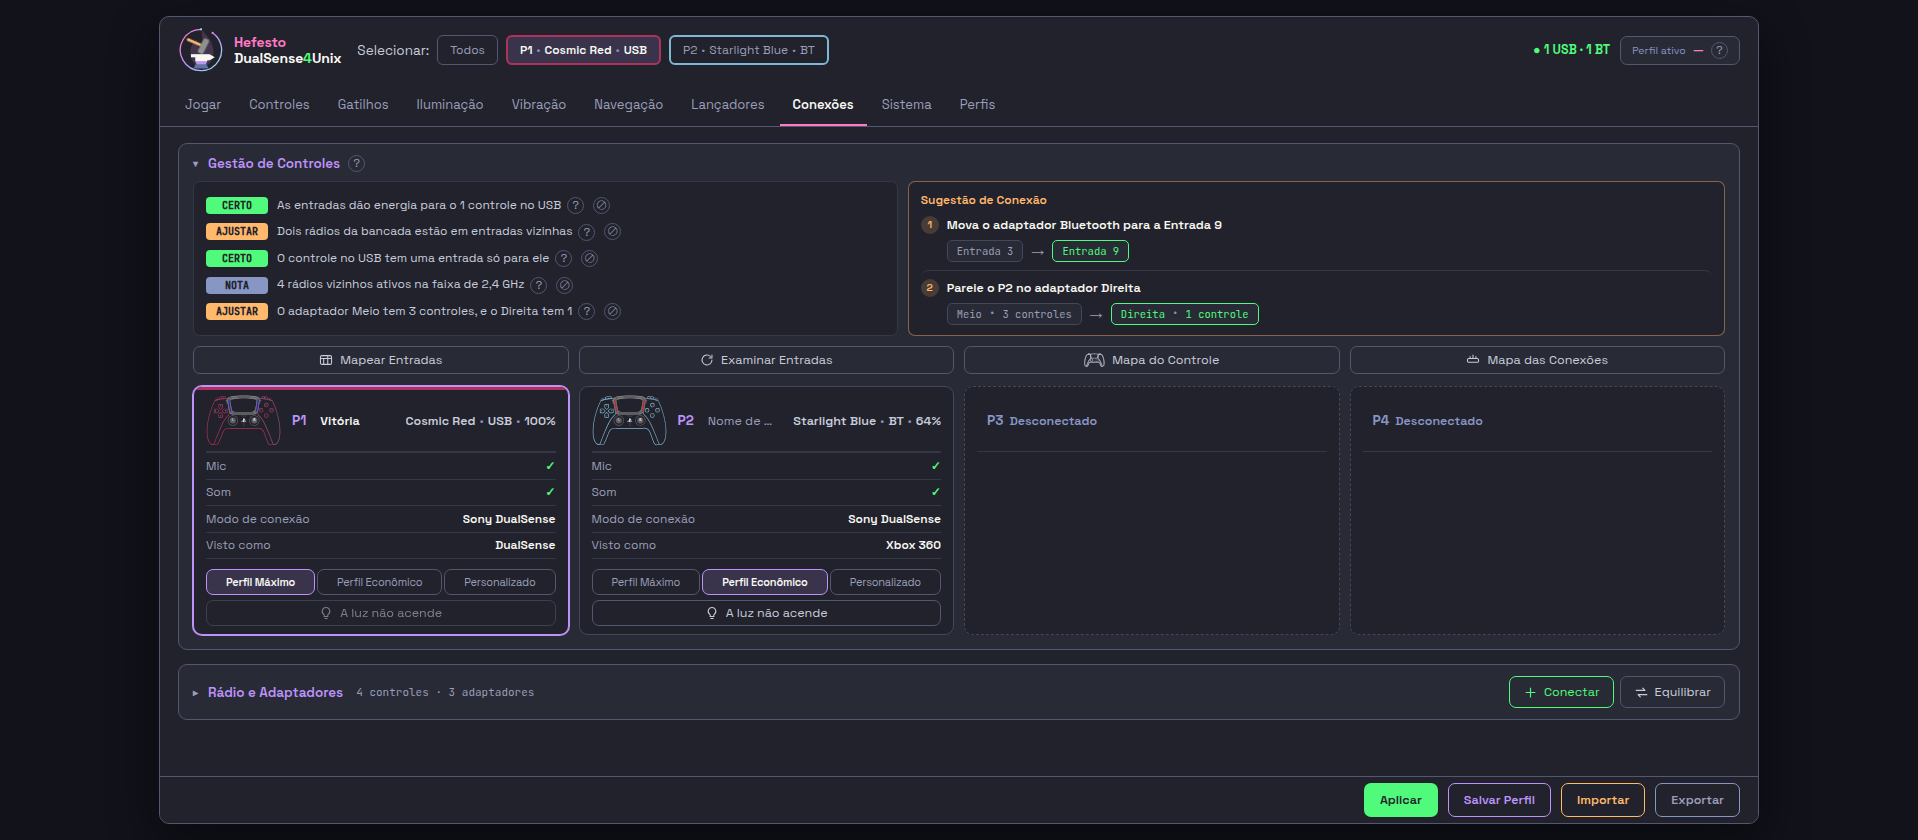
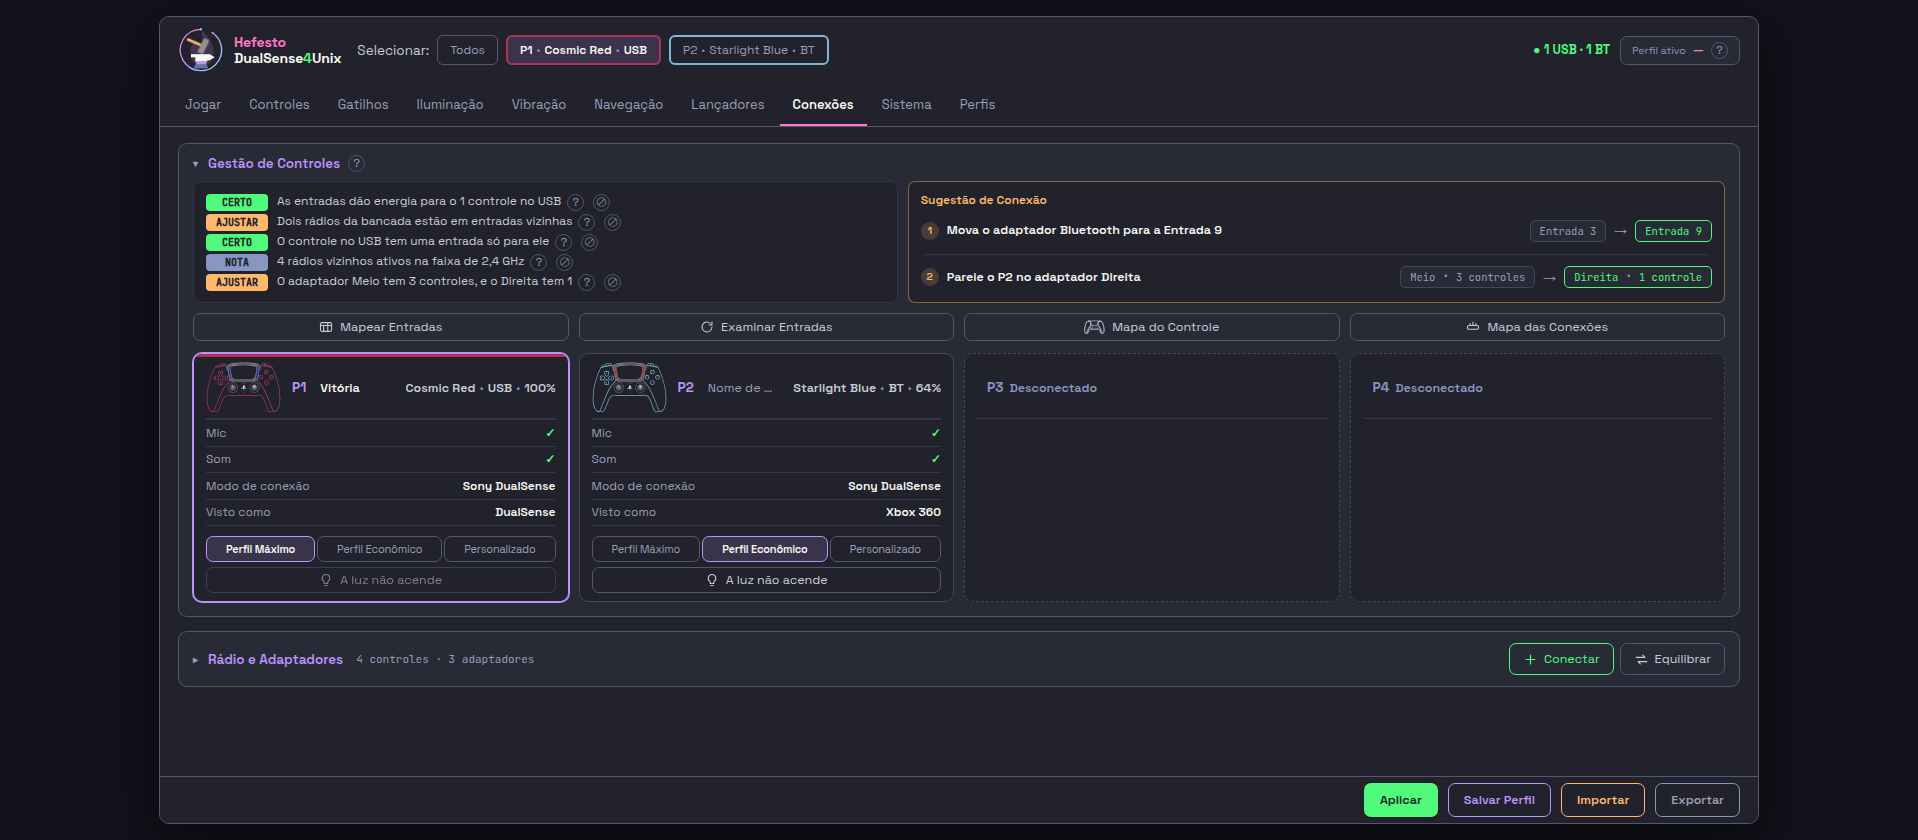
fix(conexões): o de→para da Sugestão vai à direita e diz a entrada
Pedido dela com a janela maximizada: *«pode deixar esses grafos a direita
da linha? pra ganharmos espaço vertical na página?»*. A instrução e as duas
caixas dividem a linha; sem largura, as caixas descem.

As duas caixas diziam o que ninguém lê: a esquerda, o caminho do kernel
(«4-1.1.4»), a direita, só o número («2»). Agora as duas dizem «Entrada N».
A entrada do aparelho sai do mapa dela, e o `porta_de` passou a olhar os
dois lados do buraco — o aparelho USB 3 enumera no nó SuperSpeed, e a
entrada declara o caminho do lado 2.0.

diff --git a/mockup/08-conexoes.html b/mockup/08-conexoes.html
@@ -1356,8 +1356,14 @@
             background:var(--app-bg);padding:10px 12px}
   .sugestao > .ordem-tit{margin:0}
   .sugestao .col-ordem{flex:1;display:flex;flex-direction:column;gap:8px}
+  /* O DE→PARA À DIREITA DA LINHA — 26/09/2026, pedido dela: *«pode deixar
+     esses grafos a direita da linha? pra ganharmos espaço vertical»*. A
+     instrução e as duas caixas dividem a linha; sem largura, as caixas descem
+     (`wrap`) em vez de apertar a instrução. */
   .sugestao .col-ordem > .ordem{border:none;padding:0;background:none;display:flex;
-                                flex-direction:column;justify-content:flex-start}
+                                flex-direction:row;flex-wrap:wrap;align-items:center;
+                                justify-content:flex-start;column-gap:12px;row-gap:6px}
+  .sugestao .col-ordem > .ordem > .faca{flex:1 1 auto;min-width:0}
   .sugestao .col-ordem > .ordem + .ordem{margin-top:0;padding-top:8px;
                                 border-top:1px solid var(--border-sutil)}
   .sugestao .col-ordem > .nada:only-child{display:none}
@@ -1365,7 +1371,7 @@
   .sugestao .ordem .faca .n{flex:0 0 18px;height:18px;border-radius:50%;display:inline-flex;
                            align-items:center;justify-content:center;font-size:10.5px;
                            background:rgba(255,184,108,.18);color:var(--orange)}
-  .sugestao .ordem .receita{margin-top:6px;padding-left:26px}
+  .sugestao .ordem .receita{flex:0 0 auto;margin:0 0 0 auto;padding-left:0}
   /* 11px, e o número é MEDIDO, não escolhido: com os botões dentro das colunas o
      vão nascia da sobra que os itens de cada coluna repartiam entre si, e não de
      uma margem. 11 é o que devolve o quadro aos mesmos 204px e a fileira ao mesmo

diff --git a/src/hefesto_dualsense4unix/interface/paginas/08-conexoes.html b/src/hefesto_dualsense4unix/interface/paginas/08-conexoes.html
@@ -1356,8 +1356,14 @@
             background:var(--app-bg);padding:10px 12px}
   .sugestao > .ordem-tit{margin:0}
   .sugestao .col-ordem{flex:1;display:flex;flex-direction:column;gap:8px}
+  /* O DE→PARA À DIREITA DA LINHA — 26/09/2026, pedido dela: *«pode deixar
+     esses grafos a direita da linha? pra ganharmos espaço vertical»*. A
+     instrução e as duas caixas dividem a linha; sem largura, as caixas descem
+     (`wrap`) em vez de apertar a instrução. */
   .sugestao .col-ordem > .ordem{border:none;padding:0;background:none;display:flex;
-                                flex-direction:column;justify-content:flex-start}
+                                flex-direction:row;flex-wrap:wrap;align-items:center;
+                                justify-content:flex-start;column-gap:12px;row-gap:6px}
+  .sugestao .col-ordem > .ordem > .faca{flex:1 1 auto;min-width:0}
   .sugestao .col-ordem > .ordem + .ordem{margin-top:0;padding-top:8px;
                                 border-top:1px solid var(--border-sutil)}
   .sugestao .col-ordem > .nada:only-child{display:none}
@@ -1365,7 +1371,7 @@
   .sugestao .ordem .faca .n{flex:0 0 18px;height:18px;border-radius:50%;display:inline-flex;
                            align-items:center;justify-content:center;font-size:10.5px;
                            background:rgba(255,184,108,.18);color:var(--orange)}
-  .sugestao .ordem .receita{margin-top:6px;padding-left:26px}
+  .sugestao .ordem .receita{flex:0 0 auto;margin:0 0 0 auto;padding-left:0}
   /* 11px, e o número é MEDIDO, não escolhido: com os botões dentro das colunas o
      vão nascia da sobra que os itens de cada coluna repartiam entre si, e não de
      uma margem. 11 é o que devolve o quadro aos mesmos 204px e a fileira ao mesmo

diff --git a/src/hefesto_dualsense4unix/interface/aba08.py b/src/hefesto_dualsense4unix/interface/aba08.py
@@ -540,7 +540,7 @@ def _sugestao_da_cena():
     controles). O produto repinta a coluna inteira a cada tique.
     """
     ordem = SimpleNamespace(acao="Mova o adaptador Bluetooth para a Entrada 9",
-                            destino="Entrada 9", alvo=SimpleNamespace(caminho="Entrada 3"),
+                            destino="9", alvo=SimpleNamespace(caminho="Entrada 3"),
                             chave="bancada", arranjo="")
     cena = {"proposta": {"controle": "p2", "destino": "direita"},
             "lugares": [{"id": "meio", "nome": "Meio"}, {"id": "direita", "nome": "Direita"}],
@@ -851,8 +851,14 @@ CSS = CSS_GLIFO + CSS_POPUP + """
             background:var(--app-bg);padding:10px 12px}
   .sugestao > .ordem-tit{margin:0}
   .sugestao .col-ordem{flex:1;display:flex;flex-direction:column;gap:8px}
+  /* O DE→PARA À DIREITA DA LINHA — 26/09/2026, pedido dela: *«pode deixar
+     esses grafos a direita da linha? pra ganharmos espaço vertical»*. A
+     instrução e as duas caixas dividem a linha; sem largura, as caixas descem
+     (`wrap`) em vez de apertar a instrução. */
   .sugestao .col-ordem > .ordem{border:none;padding:0;background:none;display:flex;
-                                flex-direction:column;justify-content:flex-start}
+                                flex-direction:row;flex-wrap:wrap;align-items:center;
+                                justify-content:flex-start;column-gap:12px;row-gap:6px}
+  .sugestao .col-ordem > .ordem > .faca{flex:1 1 auto;min-width:0}
   .sugestao .col-ordem > .ordem + .ordem{margin-top:0;padding-top:8px;
                                 border-top:1px solid var(--border-sutil)}
   .sugestao .col-ordem > .nada:only-child{display:none}
@@ -860,7 +866,7 @@ CSS = CSS_GLIFO + CSS_POPUP + """
   .sugestao .ordem .faca .n{flex:0 0 18px;height:18px;border-radius:50%;display:inline-flex;
                            align-items:center;justify-content:center;font-size:10.5px;
                            background:rgba(255,184,108,.18);color:var(--orange)}
-  .sugestao .ordem .receita{margin-top:6px;padding-left:26px}
+  .sugestao .ordem .receita{flex:0 0 auto;margin:0 0 0 auto;padding-left:0}
   /* 11px, e o número é MEDIDO, não escolhido: com os botões dentro das colunas o
      vão nascia da sobra que os itens de cada coluna repartiam entre si, e não de
      uma margem. 11 é o que devolve o quadro aos mesmos 204px e a fileira ao mesmo
@@ -2677,7 +2683,7 @@ def veredito(n, esticada=False):
 #: As lacunas que ESTA cena produz, na ordem em que o produto as declara.
 #:
 #: MEDIDO no produto, e as duas primeiras não têm como não estar:
-#:   · `posicao`   — `mapa_das_portas.py:520-527` não é condicional: basta
+#:   · `posicao`   — `mapa_das_portas.py:562-569` não é condicional: basta
 #:                   existir uma face.
 #:   · `velocidade`— esta janela nunca escreve `nos`; quem escreve é a outra
 #:                   (`calibrar_entradas.py:743-746`). Logo TODA entrada sai

diff --git a/tests/unit/test_a_sugestao_de_conexao_diz_cada_ajuste.py b/tests/unit/test_a_sugestao_de_conexao_diz_cada_ajuste.py
@@ -99,7 +99,7 @@ def test_a_ordem_com_destino_traz_o_de_para_e_a_calada_nao_entra(
     from hefesto_dualsense4unix.integrations.exame_da_mesa import ESTADO_ATENCAO
 
     a08 = _a08()
-    com = _ordem("porta", "Mova o adaptador Bluetooth para a Entrada 9", destino="Entrada 9",
+    com = _ordem("porta", "Mova o adaptador Bluetooth para a Entrada 9", destino="9",
                  arranjo="a1")
     calada = _ordem("calada", "Isto ela calou.", arranjo="a2")
     monkeypatch.setattr(a08, "_DISPENSADAS", {"calada": "a2"})
@@ -108,6 +108,36 @@ def test_a_ordem_com_destino_traz_o_de_para_e_a_calada_nao_entra(
     assert _linhas(html) == [("1", "Mova o adaptador Bluetooth para a Entrada 9")], html
     assert ('<div class="receita"><span class="caixa">3-1.2</span><span class="seta">→</span>'
             '<span class="caixa alvo">Entrada 9</span></div>') in html
+
+
+@pytest.mark.parametrize(("caminho", "esperado"), [
+    ("9-1.2", "Entrada 15"),      # o caminho que ela declarou na entrada
+    ("10-1.1.4", "Entrada 9"),    # o lado USB 3 do buraco, que o aparelho 3.0 usa
+    ("9-7", "9-7"),               # fora do mapa: fica o caminho, que é o que se sabe
+])
+def test_as_duas_pontas_dizem_a_entrada(monkeypatch: pytest.MonkeyPatch, caminho: str,
+                                        esperado: str) -> None:
+    """26/09/2026, foto dela: a caixa da esquerda mostrava «4-1.1.4» e a da
+    direita só «2». MORDIDA: volte a caixa da esquerda ao `alvo.caminho`, ou
+    tire o laço dos nós do `mapa_das_portas.porta_de` — reprova."""
+    from types import SimpleNamespace
+
+    from hefesto_dualsense4unix.integrations.ordens_da_mesa import Identidade, Linha, Ordem
+    from hefesto_dualsense4unix.utils.maquina import MapaDaMesa, PortaDeclarada
+
+    a08 = _a08()
+    mapa = MapaDaMesa(portas={
+        "9": PortaDeclarada(caminho="9-1.1.4", nos=["9-1.1-port4", "10-1.1-port4"]),
+        "15": PortaDeclarada(caminho="9-1.2", nos=["9-1-port2", "10-1-port2"]),
+    })
+    monkeypatch.setattr(a08, "_declaracao", lambda recarregar=False: SimpleNamespace(mapa=mapa))
+    vazio = Linha(texto="", selo="")
+    ordem = Ordem(chave="k", acao="Mova isto para a entrada 2",  # (noqa-acento) campo da Ordem
+                  o_que_eu_vi=vazio, por_que_importa=vazio, ganho_esperado=vazio,
+                  alvo=Identidade(caminho=caminho), destino="2", arranjo="a")
+    html = a08._card_da_ordem(ordem, 1)
+    assert (f'<span class="caixa">{esperado}</span><span class="seta">→</span>'
+            '<span class="caixa alvo">Entrada 2</span>') in html, html
 
 
 # ---------------------------------------------------------------------------

diff --git a/src/hefesto_dualsense4unix/interface/pacotes/a08_conexoes.py b/src/hefesto_dualsense4unix/interface/pacotes/a08_conexoes.py
@@ -1176,11 +1176,22 @@ def _card_da_ordem(ordem: Any, n: int = 1) -> str:
     """
     perfil._com_o_src()
     from hefesto_dualsense4unix.gui.aba_conexoes import TRACO
+    from hefesto_dualsense4unix.integrations import mapa_das_portas
+    from hefesto_dualsense4unix.integrations.entrada_a_entrada import rotulo_do_numero
 
     destino = str(getattr(ordem, "destino", "") or "")
-    de = str(getattr(getattr(ordem, "alvo", None), "caminho", "") or TRACO)
+    caminho = str(getattr(getattr(ordem, "alvo", None), "caminho", "") or "")
     instrucao = str(getattr(ordem, "acao", "") or "")  # (noqa-acento) campo da Ordem
-    return _linha_da_sugestao(n, instrucao, de if destino else "", destino)
+    if not destino:
+        return _linha_da_sugestao(n, instrucao)
+    # AS DUAS PONTAS DIZEM A ENTRADA (26/09/2026, foto dela): a caixa da
+    # esquerda mostrava o caminho do kernel («4-1.1.4») e a da direita só o
+    # número («2»). A entrada do aparelho sai do mapa dela, pelos dois lados
+    # do buraco; sem entrada declarada, o caminho fica, porque é o que se sabe.
+    mapa = getattr(_declaracao(), "mapa", None)
+    numero = mapa_das_portas.porta_de(mapa, caminho) if mapa is not None else None
+    de = rotulo_do_numero(numero or "") or caminho or TRACO
+    return _linha_da_sugestao(n, instrucao, de, rotulo_do_numero(destino) or destino)
 
 
 #: O nome da caixa — dela, 26/09/2026 (`D-2609-A-SUGESTAO-DE-CONEXAO-DIZ-O-QUE-MOVER`),

diff --git a/src/hefesto_dualsense4unix/interface/hefesto_vivo.py b/src/hefesto_dualsense4unix/interface/hefesto_vivo.py
@@ -1603,7 +1603,7 @@ BOOTSTRAP = r"""
       // tinha catorze nomes, escritos à mão, e os gestos da aba Conexões leem
       // `caminho`, `entrada` e `face` — NENHUM dos três estava nela. O botão
       // "escolher aparelho" traz `data-caminho` (o pacote o gera em
-      // `a08_conexoes.py:1753`), as entradas do gabinete trazem `data-entrada`
+      // `a08_conexoes.py:1746`), as entradas do gabinete trazem `data-entrada`
       // no HTML publicado, e o clique chegava ao Python sem eles. Resultado:
       // SEIS gestos recusavam dizendo *"o clique não disse qual aparelho"* — e
       // recusavam para ELA também, não só para a régua. O diagnóstico que

diff --git a/src/hefesto_dualsense4unix/integrations/mapa_das_portas.py b/src/hefesto_dualsense4unix/integrations/mapa_das_portas.py
@@ -135,6 +135,14 @@ def porta_de(mapa: MapaDaMesa, caminho: str) -> str | None:
     for numero, porta in sorted(mapa.portas.items()):
         if porta.caminho == caminho:
             return numero
+    # O LADO USB 3 DO BURACO (26/09/2026): o aparelho 3.0 enumera no nó
+    # SuperSpeed (``4-1.1.4``), e a entrada declara o caminho do lado 2.0
+    # (``3-1.1.4``). Sem isto o Wi-Fi dela saía sem entrada na Sugestão.
+    from hefesto_dualsense4unix.utils.lugar import caminho_do_no
+
+    for numero, porta in sorted(mapa.portas.items()):
+        if any(caminho_do_no(no) == caminho for no in porta.nos):
+            return numero
     return None
 
 
